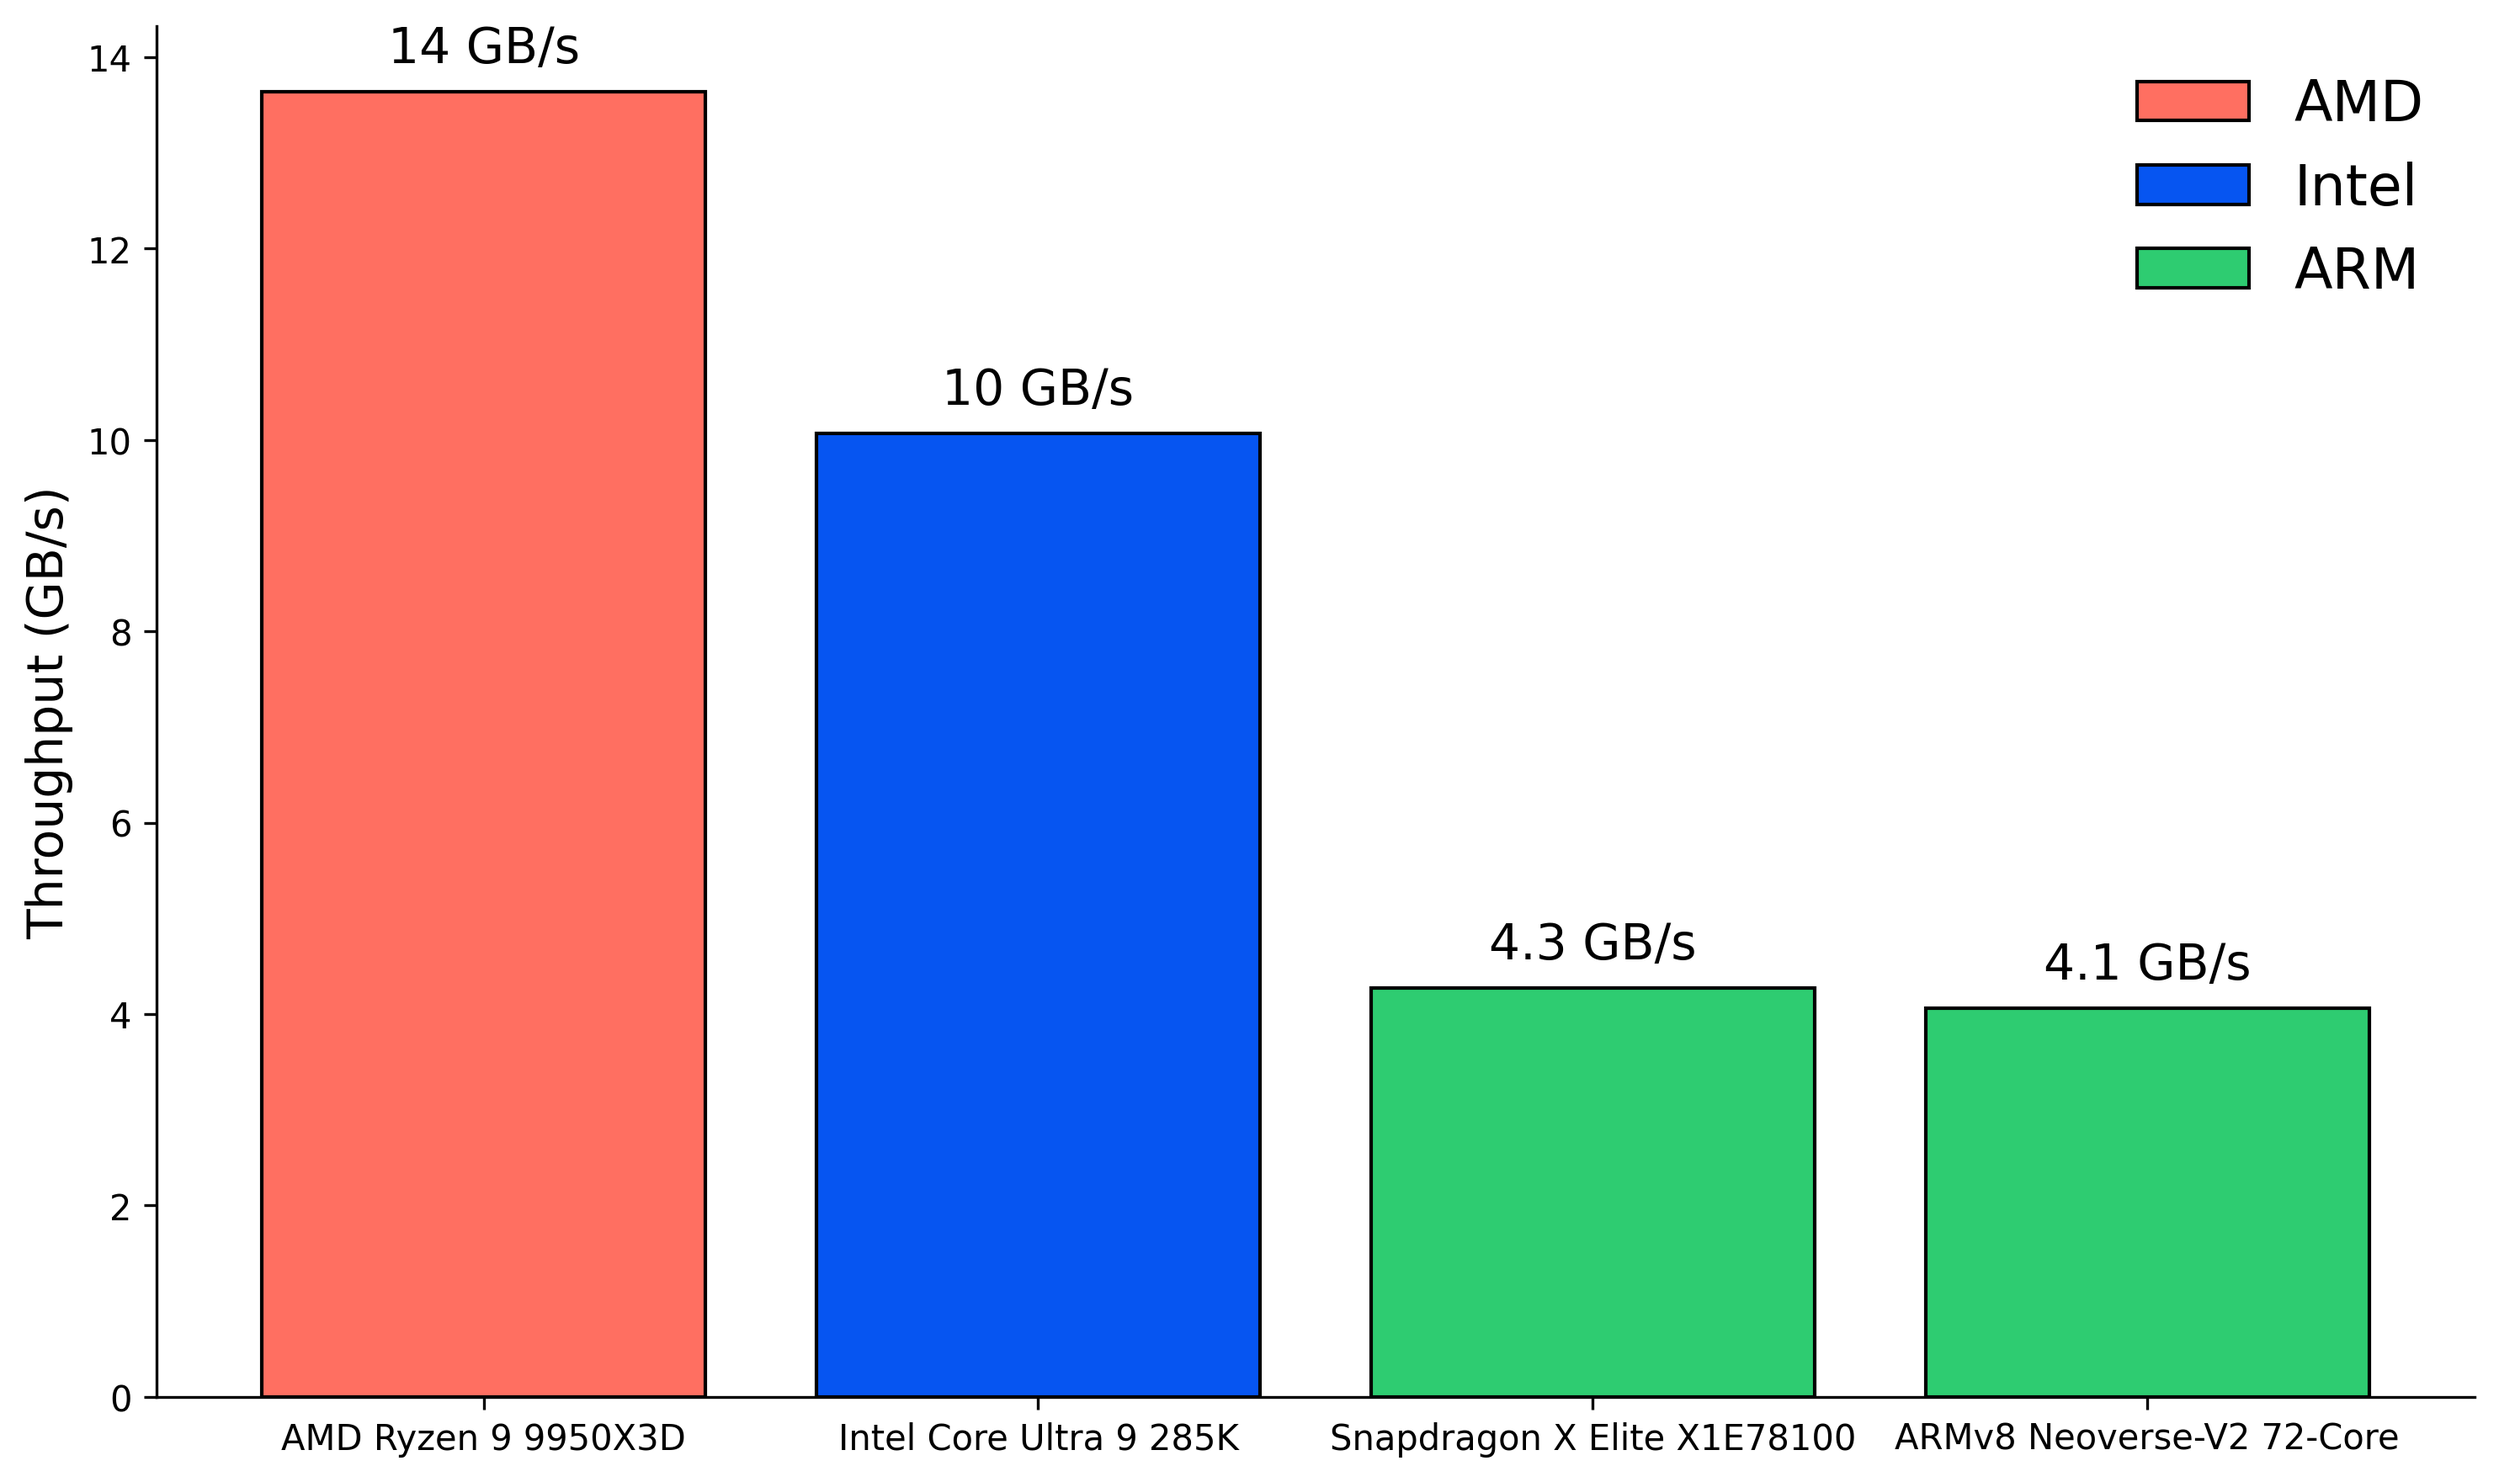
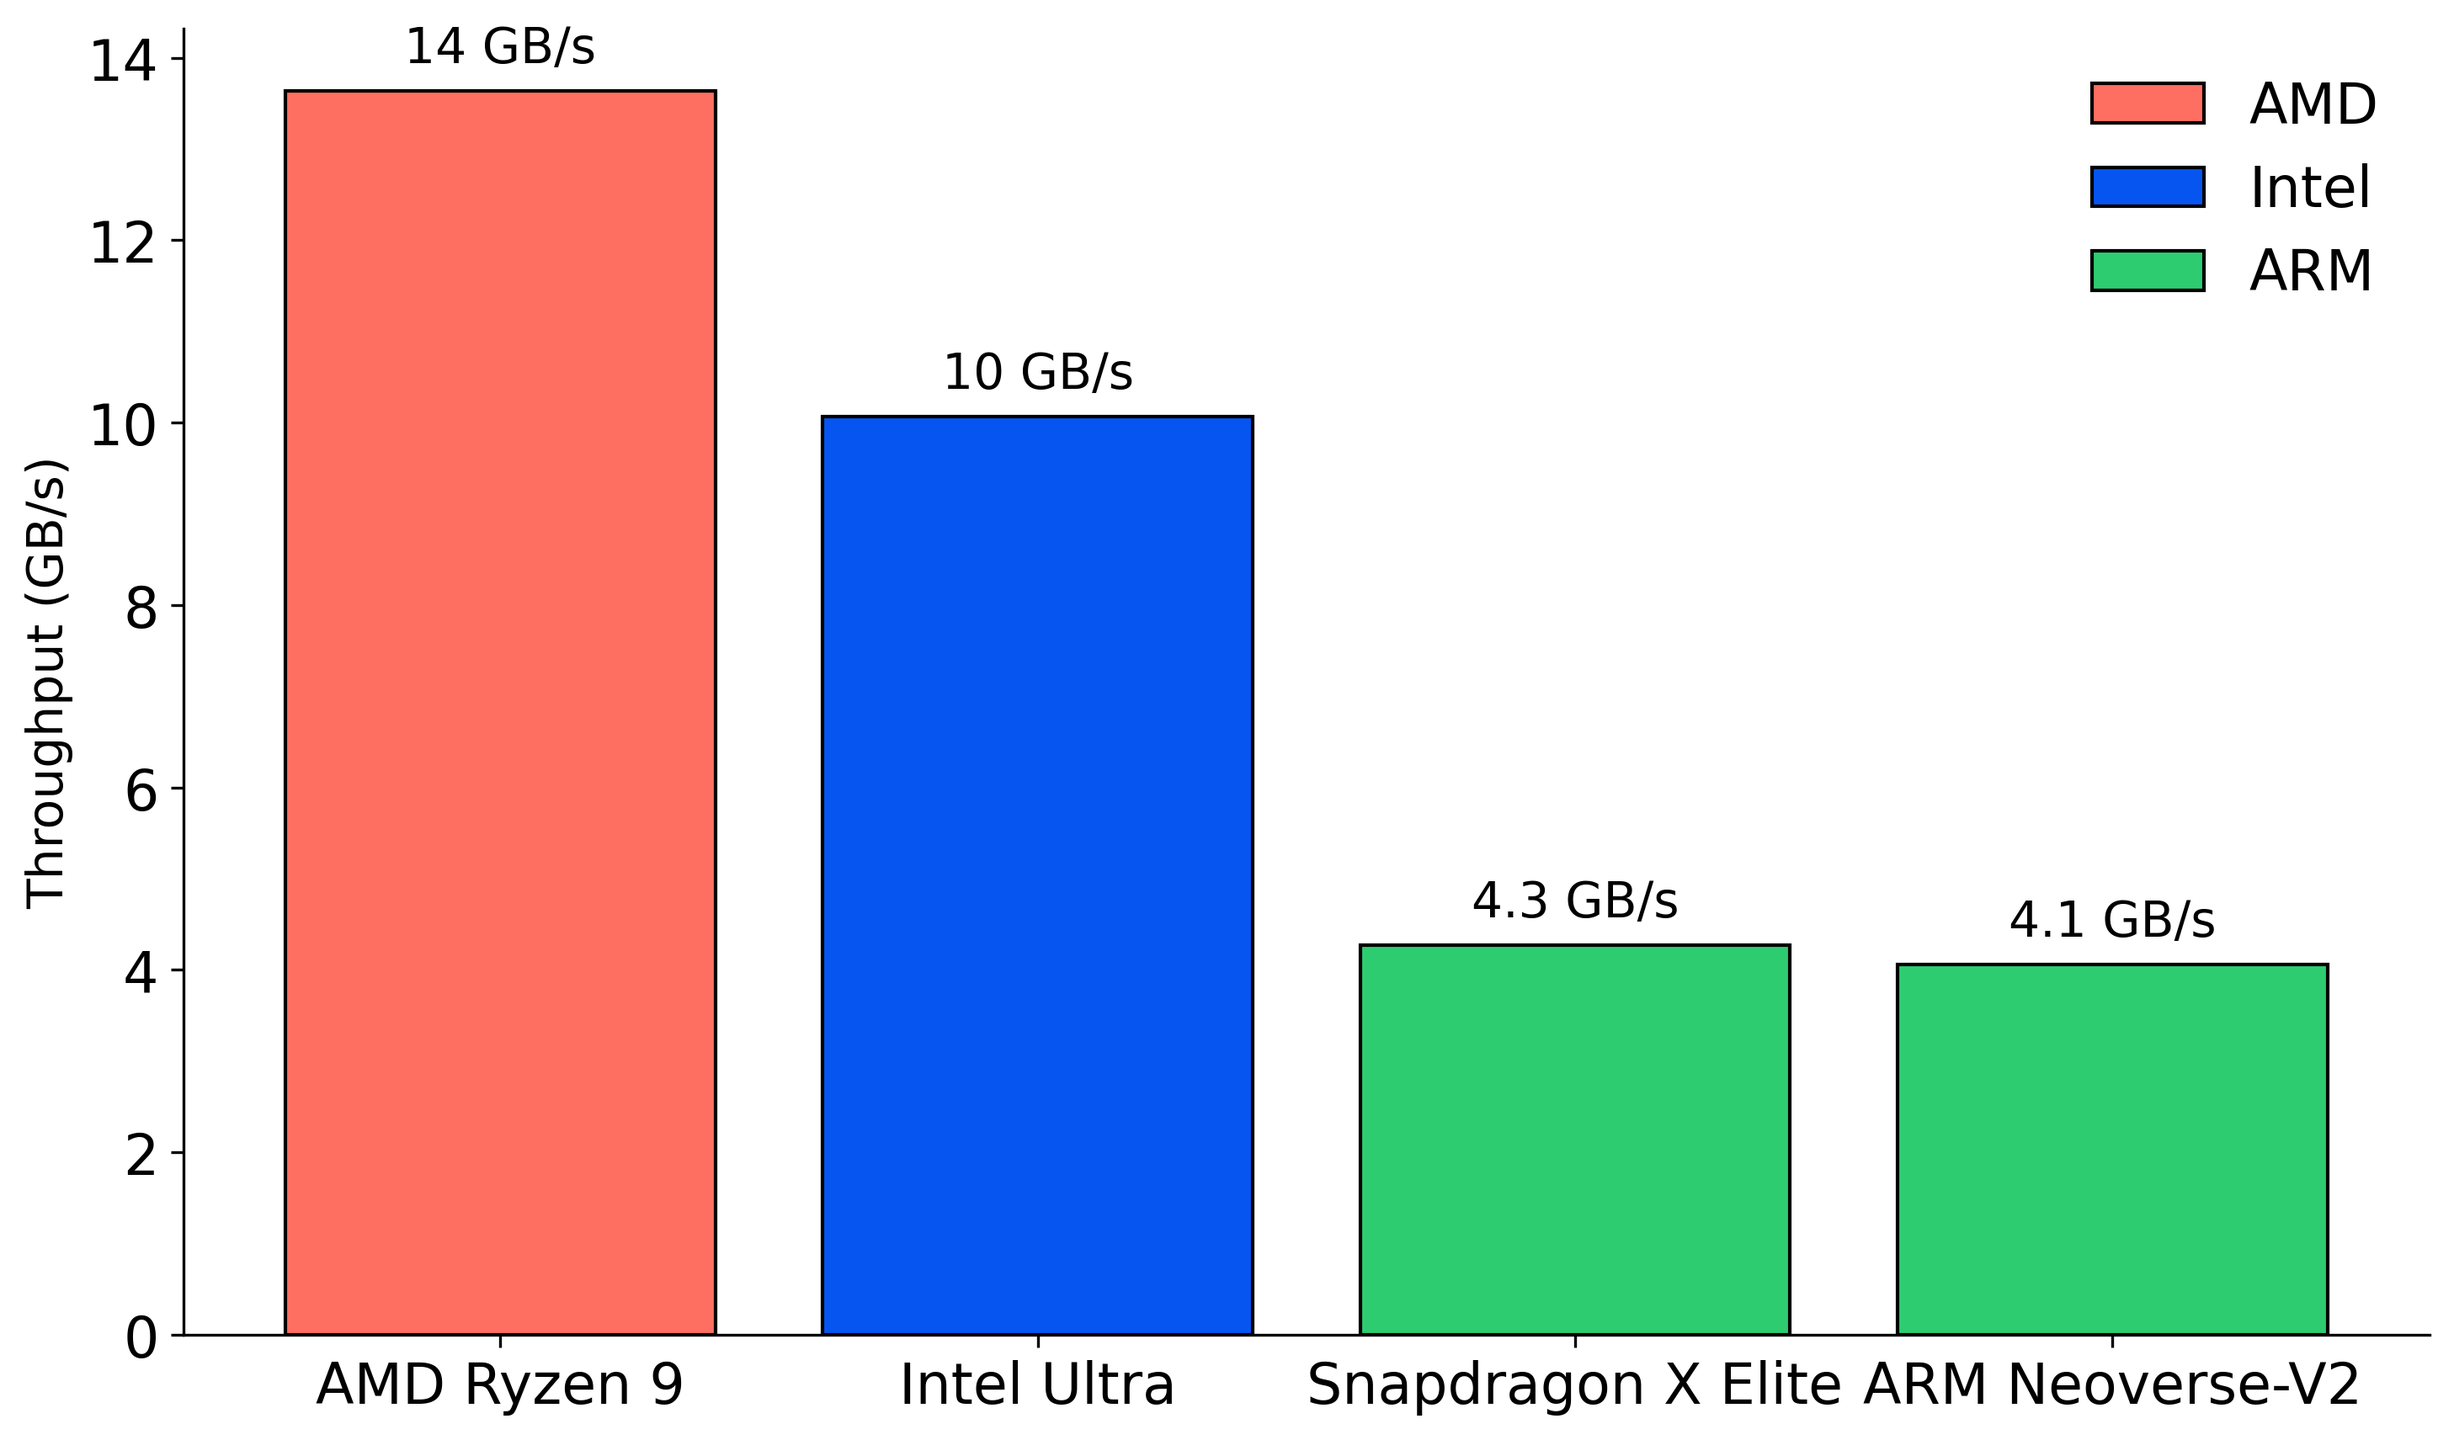
updating figure

diff --git a/cppcon2025/images/barsimdjson.py b/cppcon2025/images/barsimdjson.py
@@ -1,11 +1,13 @@
+
 import matplotlib.pyplot as plt
+plt.rcParams.update({'font.size': 16})
 
 # Data from the user
 processors = [
-    "AMD Ryzen 9 9950X3D",
-    "Intel Core Ultra 9 285K",
-    "Snapdragon X Elite X1E78100",
-    "ARMv8 Neoverse-V2 72-Core"
+    "AMD Ryzen 9",# 9950X3D
+    "Intel Ultra",#  Core9 285K
+    "Snapdragon X Elite",# X1E78100
+    "ARM Neoverse-V2" #
 ]
 gb_per_second = [13.64, 10.07, 4.27, 4.06]
 

diff --git a/cppcon2025/cppcon_2025_slides.md b/cppcon2025/cppcon_2025_slides.md
@@ -122,7 +122,7 @@ Source: Gwen (Chen) Shapira
 ---
 
 
-<img src="images/simdjson_benchmark.png" width="60%"/>
+<img src="images/simdjson_benchmark.png" width="80%"/>
 
 https://openbenchmarking.org/test/pts/simdjson
 
